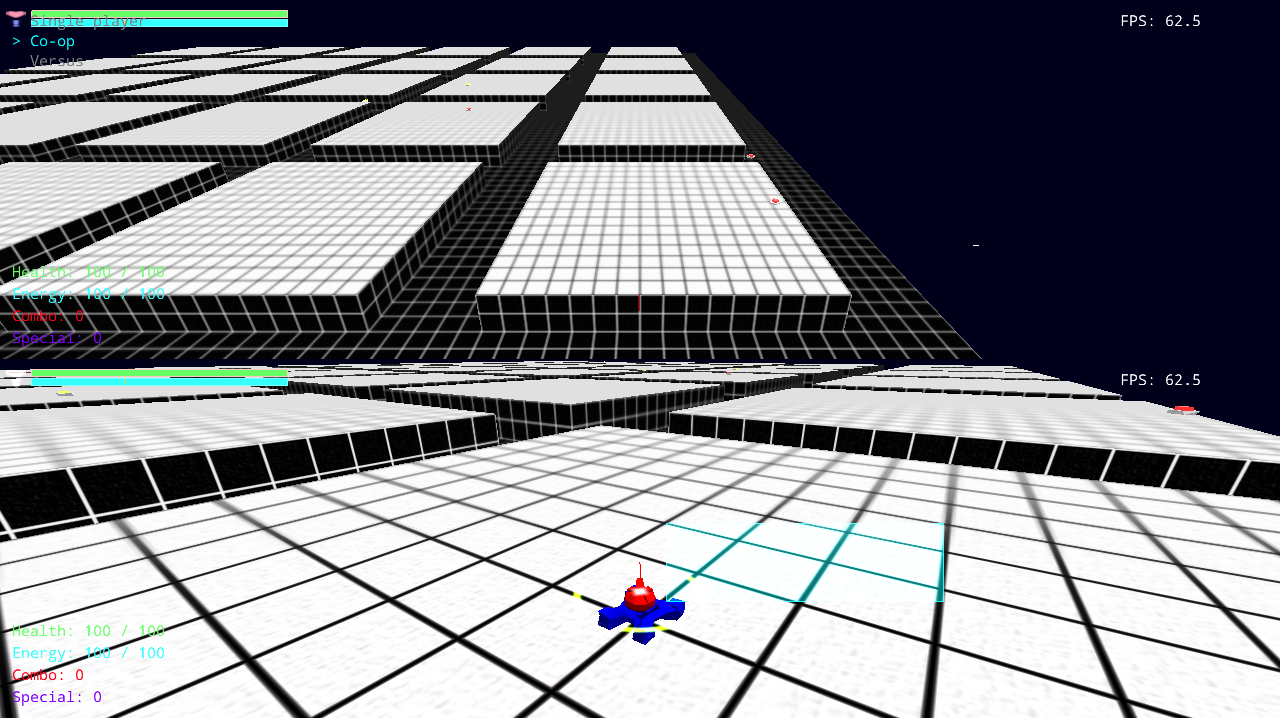
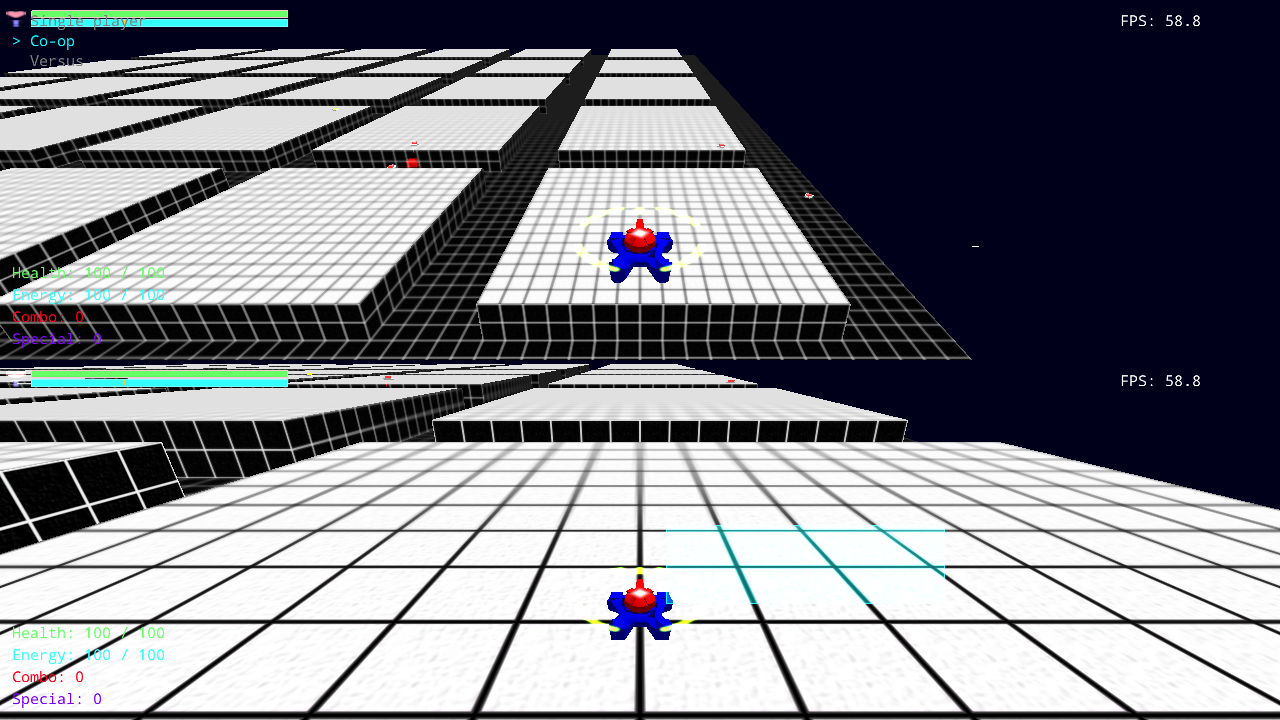
Stop gameplay simulation when returning to menu

diff --git a/tests/test_game_task_state.cpp b/tests/test_game_task_state.cpp
@@ -1,10 +1,34 @@
 #include <gtest/gtest.h>
+#include <algorithm>
 
 #include "GameTask.h"
+#include "InputTask.h"
+#include "GlobalTimer.h"
 #include "rendering/HUDDataExtractor.h"
 
 class GameTaskStateTest : public ::testing::Test {
 protected:
+    void SetUp() override {
+        ASSERT_EQ(SDL_InitSubSystem(SDL_INIT_EVENTS | SDL_INIT_TIMER), 0);
+        ASSERT_TRUE(input.Start());
+        std::fill(InputTask::keys, InputTask::keys + InputTask::keyCount, 0);
+        savedDelta = GlobalTimer::dT;
+        GlobalTimer::dT = 0.1f;
+    }
+
+    void TearDown() override {
+        GlobalTimer::dT = savedDelta;
+        input.Stop();
+        SDL_QuitSubSystem(SDL_INIT_EVENTS | SDL_INIT_TIMER);
+    }
+
+    FX* CreateMovingEffect() {
+        FX* effect = task.gameWorld.CreateFX(FxType::TYPE_SMOKE,
+            1, 2, 3, 4, 0, 0, 0, 0, 0, 1, 1, 1, 1);
+        effect->maxTime = 100;
+        return effect;
+    }
+
     void Play() { task.TransitionToState(GameTask::GameState::PLAYING); }
     void ReturnToMenu() { task.TransitionToState(GameTask::GameState::MENU); }
     void GameOver() { task.TransitionToState(GameTask::GameState::GAME_OVER); }
@@ -19,6 +43,8 @@ protected:
     }
 
     GameTask task;
+    InputTask input;
+    float savedDelta = 0;
 };
 
 TEST_F(GameTaskStateTest, ReturningFromGameplayRestoresVisibleMenu) {
@@ -39,4 +65,36 @@ TEST_F(GameTaskStateTest, GameOverKeepsGameplayViewUntilReturningToMenu) {
     ExpectMenu(false);
     ReturnToMenu();
     ExpectMenu(true);
+}
+
+TEST_F(GameTaskStateTest, MenuFramesFreezeWorldWhileAllowingSelection) {
+    Play();
+    FX* effect = CreateMovingEffect();
+    // Verify this live entity would move and age if updated.
+    effect->Update();
+    ASSERT_GT(effect->x, 1.0f);
+    const float x = effect->x;
+    const float age = effect->time;
+    ReturnToMenu();
+
+    InputTask::keys[SDL_SCANCODE_RIGHT] = 1;
+    task.Update();
+    EXPECT_EQ(task.GetMenuState(), 1);
+    InputTask::keys[SDL_SCANCODE_RIGHT] = 0;
+    for (int frame = 0; frame < 10; ++frame) task.Update();
+
+    EXPECT_FLOAT_EQ(effect->x, x);
+    EXPECT_FLOAT_EQ(effect->time, age);
+    ExpectMenu(true);
+}
+
+TEST_F(GameTaskStateTest, EscapeStopsSimulationOnTheTransitionFrame) {
+    Play();
+    FX* effect = CreateMovingEffect();
+    InputTask::keys[SDL_SCANCODE_ESCAPE] = 1;
+    task.Update();
+
+    ExpectMenu(true);
+    EXPECT_FLOAT_EQ(effect->x, 1.0f);
+    EXPECT_FLOAT_EQ(effect->time, 0.0f);
 }

diff --git a/src/GameTask.cpp b/src/GameTask.cpp
@@ -139,8 +139,7 @@ void GameTask::HandleCommonState()
 
 void GameTask::HandleMenuState()
 {
-    // Update GameWorld for menu effects (now handles FX through GameWorld)
-    gameWorld.Update();
+    // Keep the previous world frozen while the player chooses a new game.
 
     if (InputTask::KeyDown(SDL_SCANCODE_RETURN) || InputTask::MouseDown(1))
     {
@@ -207,6 +206,13 @@ void GameTask::HandleMenuState()
 
 void GameTask::HandlePlayingState()
 {
+    // Leave gameplay before processing events, movement, or combat this frame.
+    if (InputTask::KeyDown(SDL_SCANCODE_ESCAPE))
+    {
+        TransitionToState(GameState::MENU);
+        return;
+    }
+
     if (debug)
     {
         if (InputTask::KeyDown(SDL_SCANCODE_H))
@@ -231,11 +237,6 @@ void GameTask::HandlePlayingState()
     // Item management (TODO: move to GameWorld or ItemManager)
     LevelHandler::GetSingleton().UpdateItems();
     LevelHandler::GetSingleton().ItemCollision();
-
-    if (InputTask::KeyDown(SDL_SCANCODE_ESCAPE))
-    {
-        TransitionToState(GameState::MENU);
-    }
 
     if (gameOver)
     {

diff --git a/documentation/escape-menu-2026-11-05/README.md b/documentation/escape-menu-2026-11-05/README.md
@@ -7,14 +7,21 @@ gameplay view during GAME_OVER and restoring the menu on either return path.
 
 Validation:
 - `cmake --build build -j 4` passed.
-- `TANKGAME_TEST_GL=1 ctest --test-dir build --output-on-failure`: 150/150 passed.
+- `TANKGAME_TEST_GL=1 ctest --test-dir build --output-on-failure`: 152/152 passed.
 - New state/UI regression tests cover repeated play/menu transitions and the
-  game-over return path.
+  game-over return path, frozen entity motion/age over menu frames, and immediate
+  simulation stop on the Escape input frame.
 - Native modern-renderer smoke: Enter, Escape, Right, Enter, Escape, Escape.
   Menu visibility and selection were inspected in screenshots after single-player
-  and co-op; the process exited with status 0 after the final Escape.
+  and co-op; a three-second menu wait confirmed stationary world entities.
+  The process exited with status 0 after the final Escape.
 - Browser runtime was not retested.
 
-The menu overlays the existing world. Existing world updates, gameplay HUDs,
-and split-screen layout continue behind it; this change does not implement pause
-or redesign the menu. Screenshots record that behavior.
+The initial visibility fix still called GameWorld::Update from the menu handler.
+The follow-up removes that call and handles Escape before any gameplay updates,
+so movement, combat, and effect lifetimes stop immediately and stay frozen while
+the menu is open. Selecting a mode starts a new game; this is not a resume menu.
+
+The menu still overlays the world with the existing HUD and split-screen layout.
+Rendering continues (including cosmetic targeting animation and FPS displays);
+simulation is stopped. Screenshots record that behavior.
